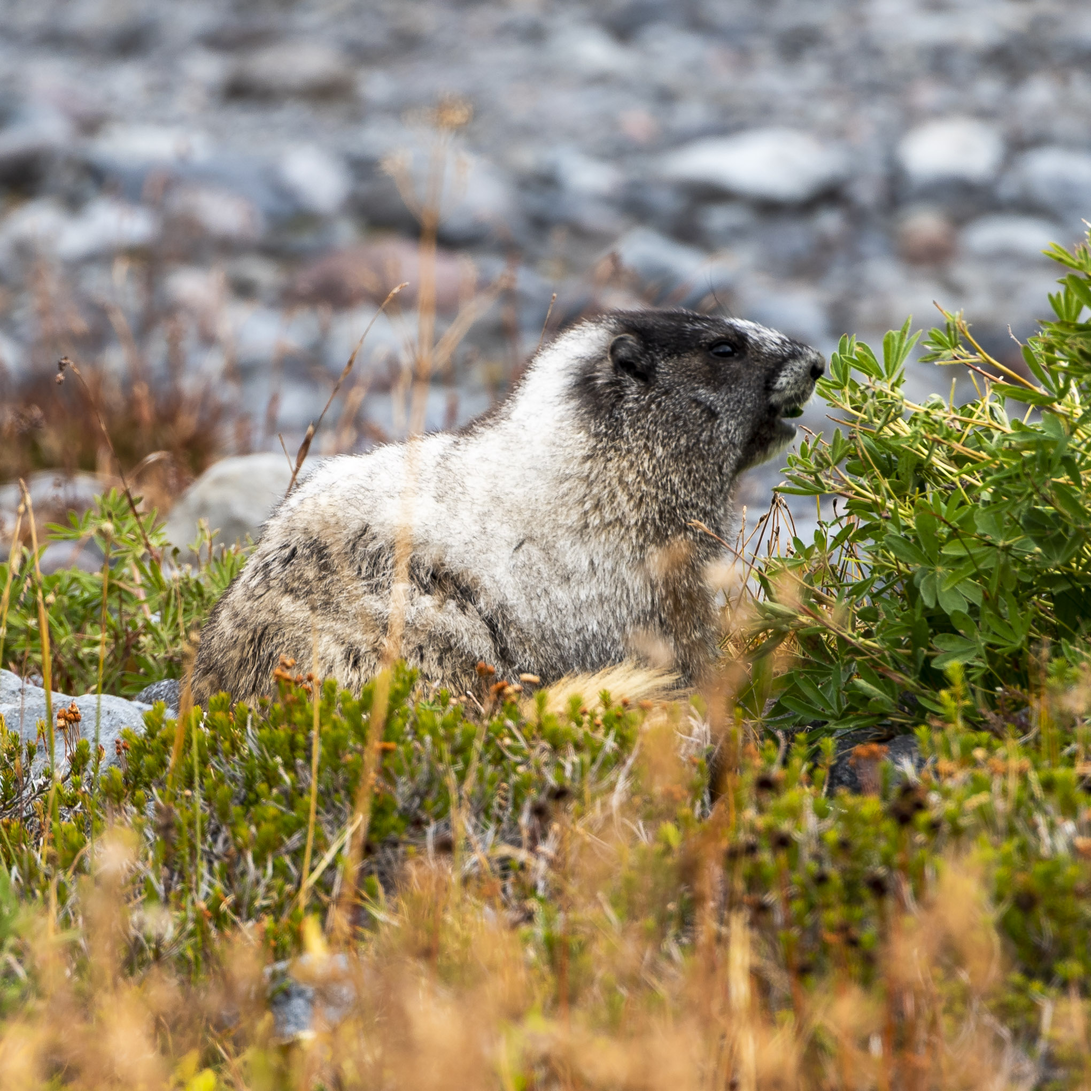
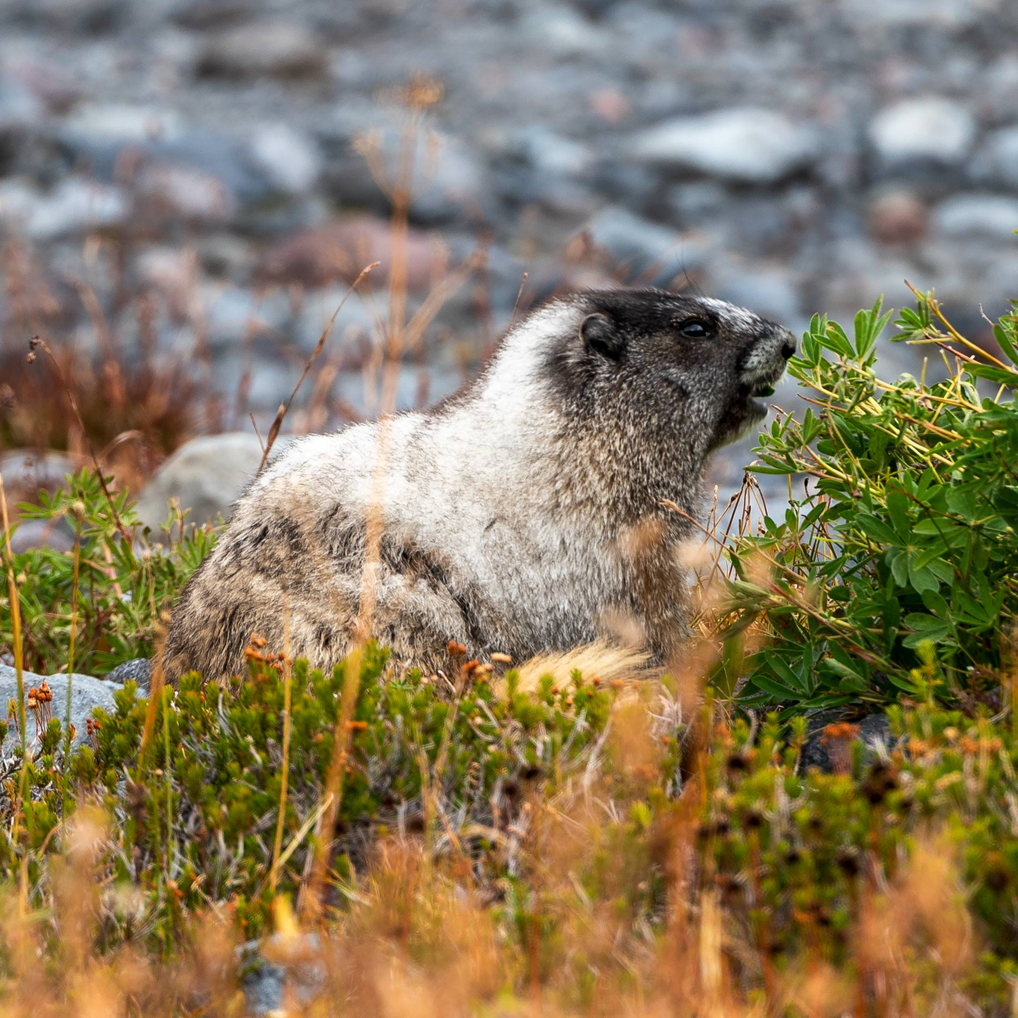
fixed marmot

diff --git a/gallery/gallery06/index.html b/gallery/gallery06/index.html
@@ -8,7 +8,7 @@ images:
  - image_path: /img/galleries/g06/DSC_7997.jpg
  - image_path: /img/galleries/g06/DSC_7965.jpg
  - image_path: /img/galleries/g06/DSC_0652.jpg
- - image_path: /img/galleries/g06/DSC_2228.jpg
+ - image_path: /img/galleries/g06/DSC_2228.JPG
  - image_path: /img/galleries/g06/DSC_3792.jpg
  - image_path: /img/galleries/g06/DSC_4011.JPG
  - image_path: /img/galleries/g06/DSC_4014.JPG
